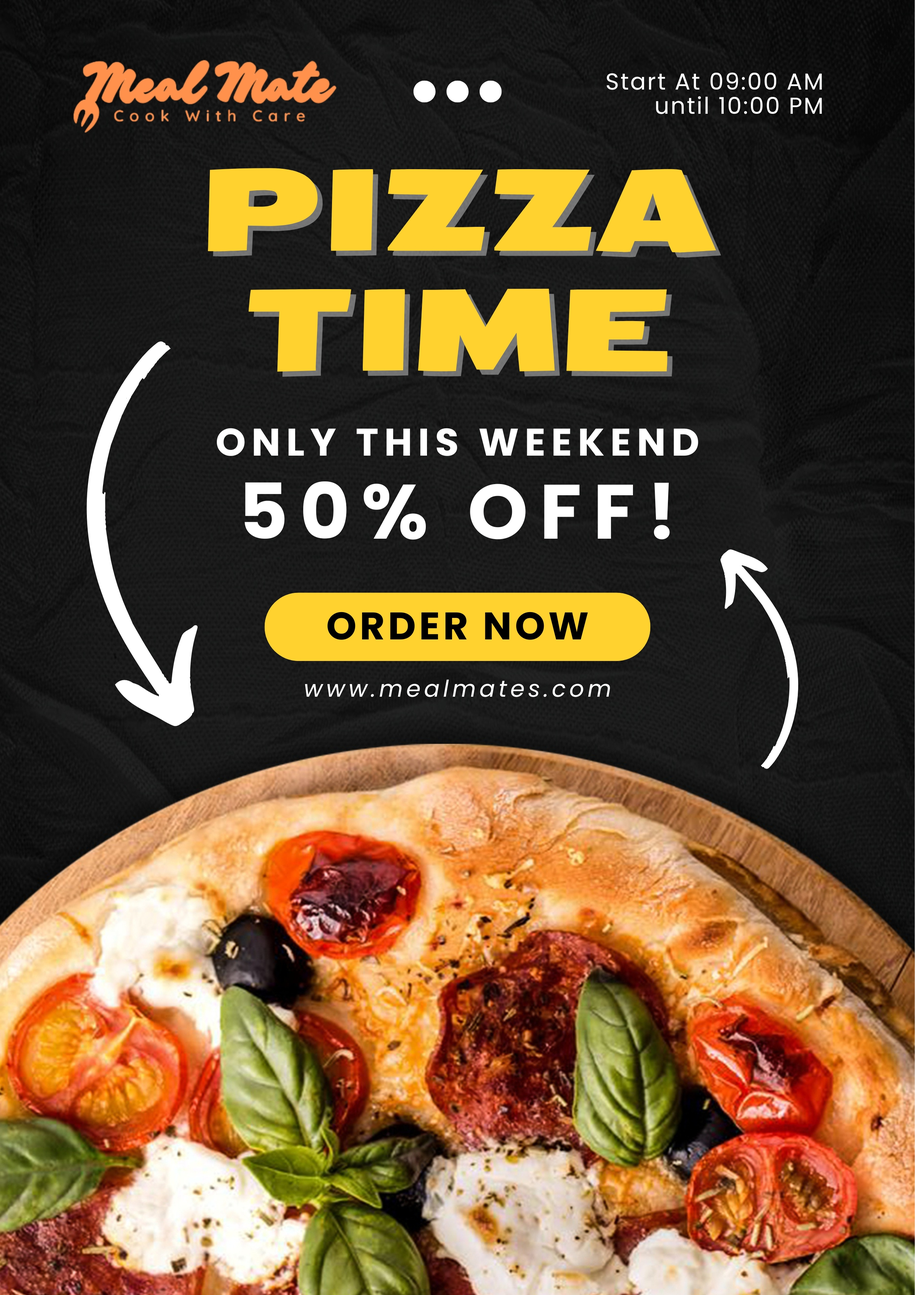
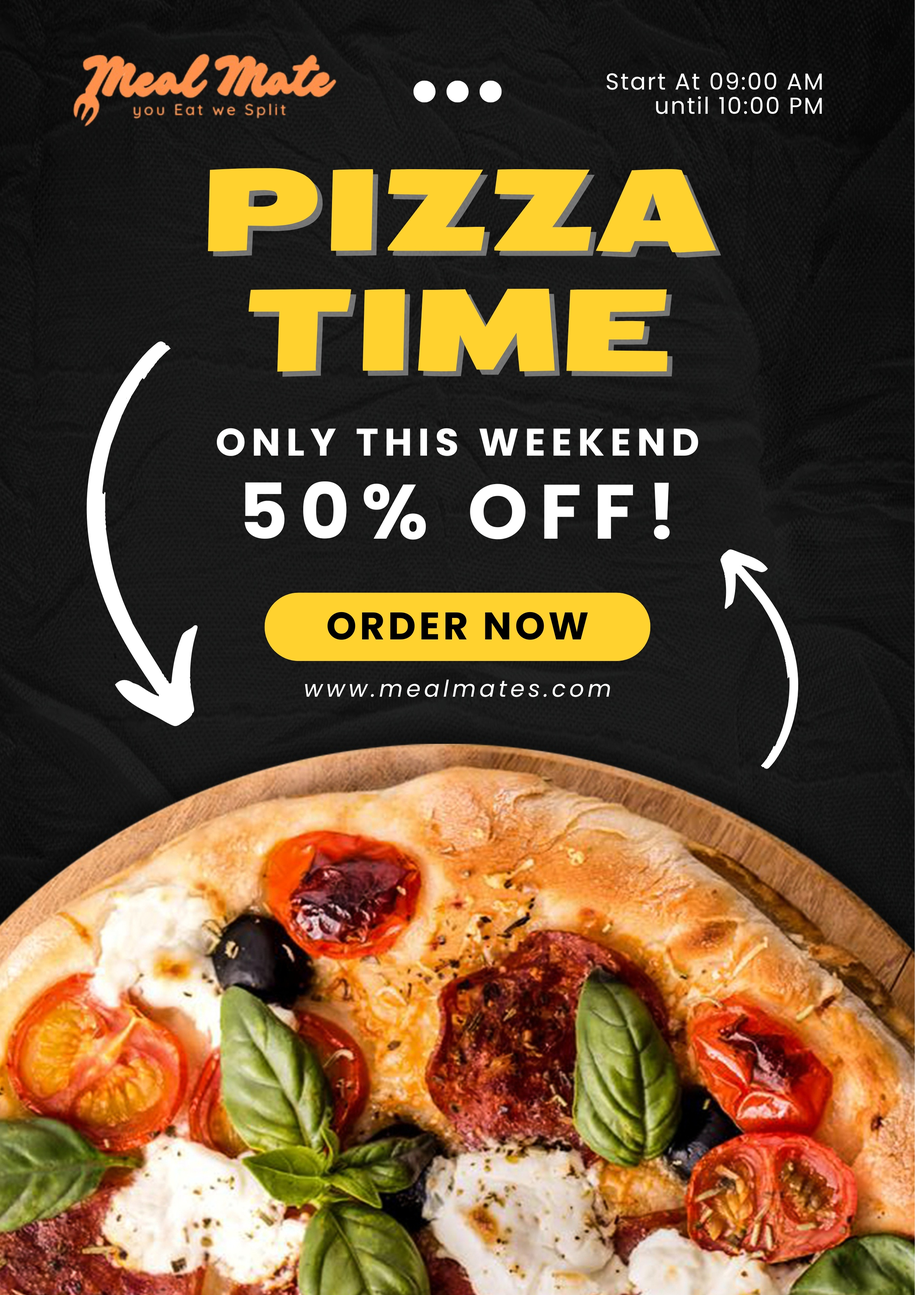
final local changes before pushing to main

Changed region(s): [[0.0622, 0.0312, 0.373, 0.0935]]

diff --git a/frontend/src/components/Aboutus.jsx b/frontend/src/components/Aboutus.jsx
@@ -1,8 +1,38 @@
 import React from 'react'
+import aboutimg from "../assets/aboutusimg.jpeg"
+import img2 from "../assets/aboutusimg2.jpg"
+import img3 from "../assets/about2.jpg"
+import style from "./Aboutus.module.css"
 
 const Aboutus = () => {
   return (
-    <div>Aboutus</div>
+    <div>
+      <div className='rounded-2xl'>
+        <img className={`rounded-2xl ${style.mainImg}`} src={aboutimg} alt="" />
+      </div>
+
+      <div className='my-10 flex flex-col md:!flex-row gap-16'>
+        <img className='w-full h-[500px] md:!max-w-[400px] rounded-2xl' src={img2} alt="about-img" />
+        <div className='flex flex-col justify-center gap-6 md:!w-2/4'>
+          <p>Let’s be honest — sharing food is easy. Splitting the bill? Not so much.</p>
+          <p>That’s where Mealmates comes in.</p>
+          <p>We’re a team of four friends who know the pain of “Who paid last time?” debates and “I’ll pay you later” promises that never see the light of day. So, we created Mealmates — a smart, simple, and slightly cheeky way to split meal payments without breaking a sweat (or a friendship).</p>
+          <p>Our platform is designed for college students, teenagers, and anyone who loves food but also wants to keep their budget — and their friendships — intact. With our unique split payment feature, we make sure everyone pays their fair share — even that one friend who always disappears when the bill arrives.</p>
+        </div>
+      </div>
+
+      <div className='my-10 flex flex-col md:!flex-row gap-16'>
+        <div className='flex flex-col justify-center gap-6 md:!w-2/4'>
+          <b className='text-gray-800'>Our Mission</b>
+          <p>To make splitting payments with your crew so easy that even the friend who never pays on time has no excuse now. Whether you’re grabbing coffee, sharing a pizza, or cooking up some midnight Maggi — Mealmates has your back (and your bill).</p>
+          <p>We’re not a big company with suits and jargon. We’re just four buddies with an idea, a lot of late-night food memories, and one shared goal — to make group meals more fun and less financially awkward.</p>
+          <p>So grab your gang, order what you love, and let Mealmates handle the math.</p>
+          <p><b>You eat. We split.</b></p>
+        </div>
+        <img className='w-full h-[500px] md:!max-w-[400px] rounded-2xl' src={img3} alt="about-img" />
+      </div>
+
+    </div>
   )
 }
 

diff --git a/frontend/src/components/Aboutus.module.css b/frontend/src/components/Aboutus.module.css
@@ -1,0 +1,12 @@
+.mainImg{
+    animation: sizeFadeIn 1s;
+}
+
+
+@keyframes sizeFadeIn {
+    0%{
+        transform: scale(0.6);
+    }100%{
+        transform: scale(1);
+    }
+}
